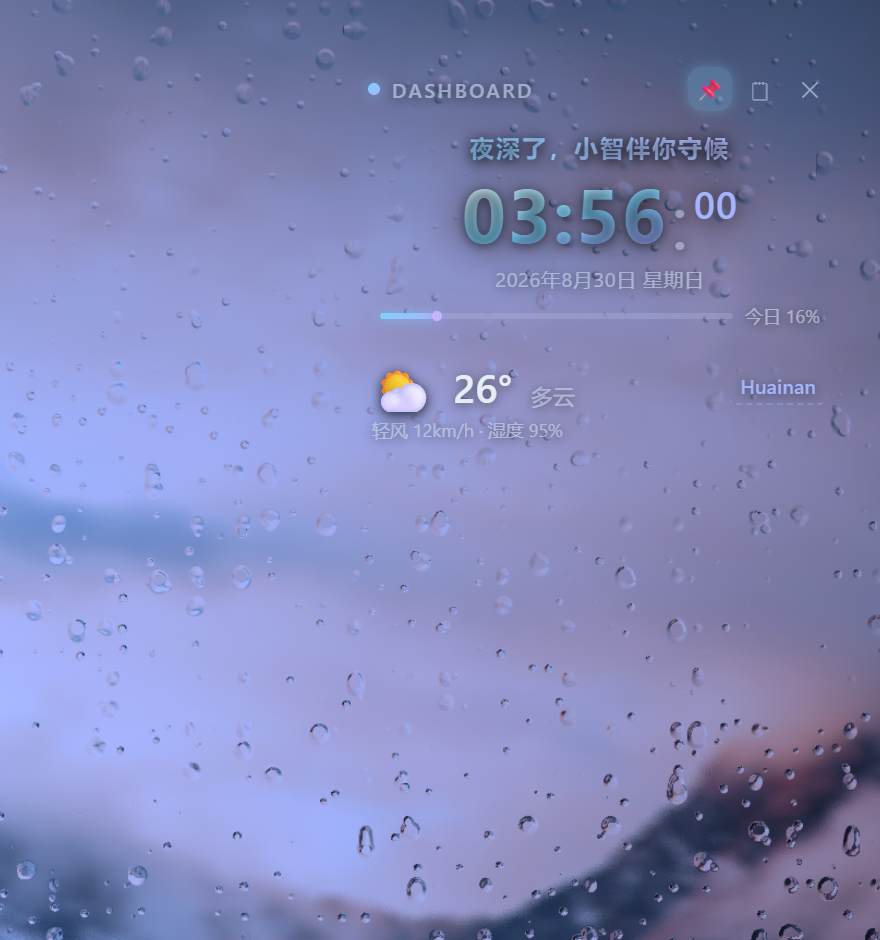
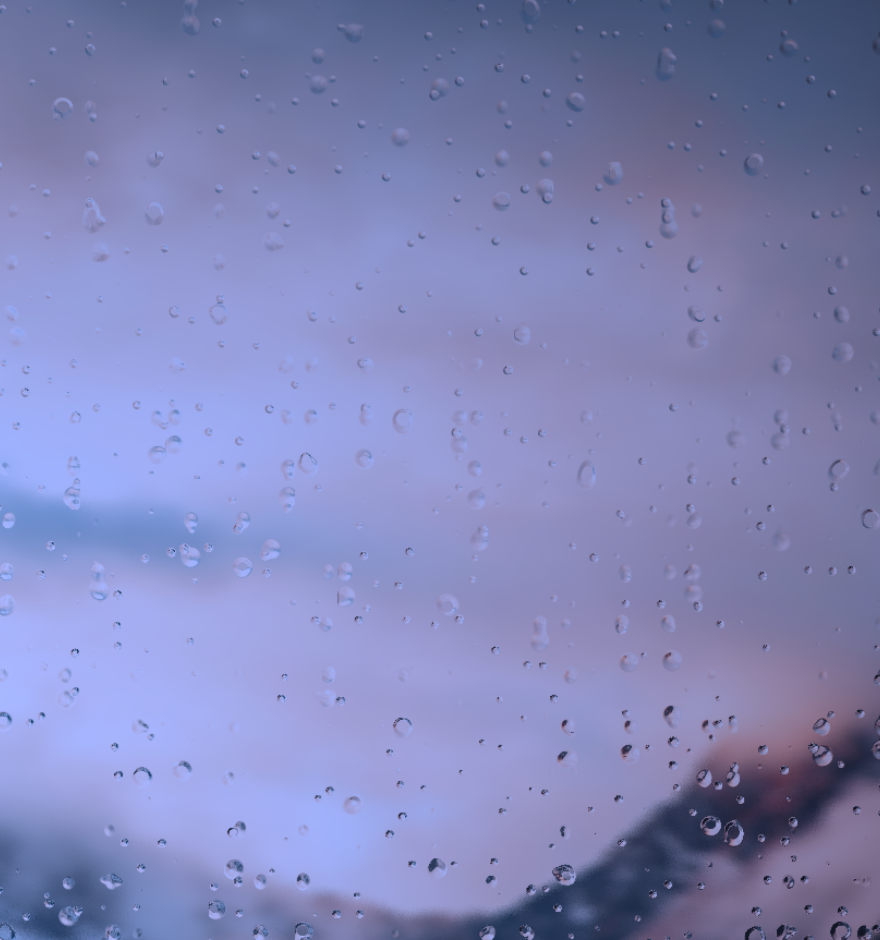
feat: 开机自启（⚡开关）+ Win+D 常驻桌面

diff --git a/dist/main.js b/dist/main.js
@@ -39,6 +39,7 @@ const memoStatus = document.getElementById("memo-status");
 const memoClear = document.getElementById("memo-clear");
 const quitBtn = document.getElementById("quit-btn");
 const pinBtn = document.getElementById("pin-btn");
+const autostartBtn = document.getElementById("autostart-btn");
 const cityPopover = document.getElementById("city-popover");
 const cityInput = document.getElementById("city-input");
 const citySave = document.getElementById("city-save");
@@ -198,6 +199,22 @@ pinBtn.addEventListener("click", async () => {
   pinBtn.title = isPinned ? "已悬浮置顶，点击放回桌面" : "悬浮置顶（当前贴在桌面）";
 });
 
+// ===== 开机自启 =====
+function setAutoUi(on) {
+  autostartBtn.classList.toggle("active", on);
+  autostartBtn.title = on ? "开机自启：已开启，点击关闭" : "开机自启：已关闭，点击开启";
+}
+autostartBtn.addEventListener("click", async () => {
+  const next = !autostartBtn.classList.contains("active");
+  try {
+    await invoke("set_autostart", { enable: next });
+    setAutoUi(next);
+  } catch (_) {}
+});
+async function loadAutoState() {
+  try { setAutoUi(await invoke("get_autostart")); } catch (_) {}
+}
+
 // ===== 退出 =====
 quitBtn.addEventListener("click", async () => { try { await invoke("quit_app"); } catch (_) {} });
 
@@ -205,6 +222,7 @@ quitBtn.addEventListener("click", async () => { try { await invoke("quit_app"); 
 async function init() {
   tickClock();
   await loadMemo();
+  loadAutoState();
   refreshWeather();
   setInterval(refreshWeather, 30 * 60 * 1000);
   // 备忘录默认展开，填满卡片下部

diff --git a/dist/index.html b/dist/index.html
@@ -13,6 +13,7 @@
           <span class="brand-dot"></span>
           <span class="brand-title">DASHBOARD</span>
           <div class="header-actions">
+            <button id="autostart-btn" class="icon-btn" title="开机自启" aria-label="开机自启">⚡</button>
             <button id="pin-btn" class="icon-btn" title="悬浮置顶（当前贴在桌面）" aria-label="悬浮置顶">📌</button>
             <button id="memo-toggle" class="icon-btn" title="备忘录" aria-label="备忘录">🗒</button>
             <button id="quit-btn" class="icon-btn close-btn" title="退出" aria-label="退出">✕</button>

diff --git a/dist/style.css b/dist/style.css
@@ -39,7 +39,7 @@ html, body {
 }
 .icon-btn:hover { background: rgba(125,211,252,0.14); color: var(--text); transform: scale(1.08); }
 .close-btn:hover { background: rgba(255,90,90,0.22); color: #fca5a5; }
-#pin-btn.active { background: rgba(125,211,252,0.22); color: var(--accent); box-shadow: 0 0 6px rgba(125,211,252,0.3); }
+.icon-btn.active { background: rgba(125,211,252,0.22); color: var(--accent); box-shadow: 0 0 6px rgba(125,211,252,0.3); }
 
 /* 问候 + 时钟 */
 .greeting { text-align: center; cursor: grab; flex-shrink: 0; position: relative; z-index: 2; animation: fadeInUp 0.6s ease; }

diff --git a/src-tauri/src/lib.rs b/src-tauri/src/lib.rs
@@ -231,6 +231,53 @@ fn bottom_hwnd(hwnd: *mut std::ffi::c_void) {
 #[cfg(not(windows))]
 fn bottom_hwnd(_hwnd: *mut std::ffi::c_void) {}
 
+/// 开机自启：HKCU\...\Run 注册表键
+const AUTOSTART_VALUE: &str = "MistBoard";
+#[cfg(windows)]
+const RUN_KEY: &str = r"Software\Microsoft\Windows\CurrentVersion\Run";
+
+#[cfg(windows)]
+fn autostart_enabled() -> bool {
+    use winreg::enums::{HKEY_CURRENT_USER, KEY_QUERY_VALUE};
+    use winreg::RegKey;
+    RegKey::predef(HKEY_CURRENT_USER)
+        .open_subkey_with_flags(RUN_KEY, KEY_QUERY_VALUE)
+        .and_then(|k| k.get_value::<String, _>(AUTOSTART_VALUE))
+        .is_ok()
+}
+
+#[cfg(windows)]
+fn set_autostart_registry(enable: bool) -> Result<(), String> {
+    use winreg::enums::{HKEY_CURRENT_USER, KEY_QUERY_VALUE, KEY_SET_VALUE};
+    use winreg::RegKey;
+    let key = RegKey::predef(HKEY_CURRENT_USER)
+        .open_subkey_with_flags(RUN_KEY, KEY_SET_VALUE | KEY_QUERY_VALUE)
+        .map_err(|e| e.to_string())?;
+    if enable {
+        let exe = std::env::current_exe().map_err(|e| e.to_string())?;
+        key.set_value(AUTOSTART_VALUE, &exe.to_string_lossy().to_string())
+            .map_err(|e| e.to_string())
+    } else {
+        let _ = key.delete_value(AUTOSTART_VALUE);
+        Ok(())
+    }
+}
+
+#[cfg(not(windows))]
+fn autostart_enabled() -> bool { false }
+#[cfg(not(windows))]
+fn set_autostart_registry(_enable: bool) -> Result<(), String> { Ok(()) }
+
+#[tauri::command]
+fn get_autostart() -> bool {
+    autostart_enabled()
+}
+
+#[tauri::command]
+fn set_autostart(enable: bool) -> Result<(), String> {
+    set_autostart_registry(enable)
+}
+
 /// 📌 切换悬浮置顶；默认贴在桌面，被应用窗口盖住
 #[tauri::command]
 fn toggle_pin(window: tauri::WebviewWindow) -> Result<bool, String> {
@@ -270,6 +317,18 @@ pub fn run() {
         .manage(HttpClient(http))
         .setup(|app| {
             if let Some(window) = app.get_webview_window("main") {
+                // 去掉可最小化样式：Win+D/显示桌面会跳过本窗口，看板常驻桌面
+                #[cfg(windows)]
+                if let Ok(raw) = window.hwnd() {
+                    use windows_sys::Win32::UI::WindowsAndMessaging::{
+                        GetWindowLongPtrW, SetWindowLongPtrW, GWL_STYLE, WS_MAXIMIZEBOX, WS_MINIMIZEBOX,
+                    };
+                    let hwnd = raw.0 as *mut std::ffi::c_void;
+                    unsafe {
+                        let style = GetWindowLongPtrW(hwnd, GWL_STYLE);
+                        SetWindowLongPtrW(hwnd, GWL_STYLE, style & !((WS_MINIMIZEBOX | WS_MAXIMIZEBOX) as isize));
+                    }
+                }
                 if let Ok(Some(monitor)) = window.current_monitor() {
                     let size = monitor.size();
                     let scale = monitor.scale_factor();
@@ -298,26 +357,6 @@ pub fn run() {
                 if let Ok(raw) = window.hwnd() {
                     bottom_hwnd(raw.0 as *mut std::ffi::c_void);
                 }
-
-                // Win+D/显示桌面会把它最小化：无激活地恢复并压回底层
-                #[cfg(windows)]
-                {
-                    let w = window.clone();
-                    std::thread::spawn(move || loop {
-                        std::thread::sleep(std::time::Duration::from_millis(800));
-                        if let Ok(true) = w.is_minimized() {
-                            use windows_sys::Win32::UI::WindowsAndMessaging::ShowWindow;
-                            use windows_sys::Win32::UI::WindowsAndMessaging::SW_SHOWNOACTIVATE;
-                            if let Ok(raw) = w.hwnd() {
-                                let hwnd = raw.0 as *mut std::ffi::c_void;
-                                unsafe {
-                                    ShowWindow(hwnd, SW_SHOWNOACTIVATE);
-                                }
-                                bottom_hwnd(hwnd);
-                            }
-                        }
-                    });
-                }
             }
             Ok(())
         })
@@ -336,6 +375,18 @@ pub fn run() {
                         bottom_hwnd(raw.0 as *mut std::ffi::c_void);
                     }
                 }
+                // Win+D 最小化时窗口尺寸变为 0x0：无激活地恢复并压回底层，保证回到桌面就能看到
+                tauri::WindowEvent::Resized(size) => {
+                    if size.width == 0 || size.height == 0 {
+                        #[cfg(windows)]
+                        if let Ok(raw) = window.hwnd() {
+                            use windows_sys::Win32::UI::WindowsAndMessaging::{ShowWindow, SW_SHOWNOACTIVATE};
+                            let hwnd = raw.0 as *mut std::ffi::c_void;
+                            unsafe { ShowWindow(hwnd, SW_SHOWNOACTIVATE); }
+                            bottom_hwnd(hwnd);
+                        }
+                    }
+                }
                 _ => {}
             }
         })
@@ -343,7 +394,8 @@ pub fn run() {
             load_memo, save_memo,
             get_weather, get_weather_by_city, load_cached_weather,
             save_city, load_city,
-            toggle_pin, quit_app
+            toggle_pin, quit_app,
+            get_autostart, set_autostart
         ])
         .run(tauri::generate_context!())
         .expect("error while running tauri application");

diff --git a/README.md b/README.md
@@ -28,6 +28,8 @@
 - **天气**：Open-Meteo 数据，30 分钟自动刷新，支持手动设置城市，断网自动显示缓存并快速重试
 - **备忘录**：默认展开的便签，自动保存，重启不丢
 - **位置记忆**：拖到哪儿，下次启动就在哪儿
+- **开机自启（可选）**：顶栏 ⚡ 一键开关，开机登录后自动出现在桌面
+- **Win+D 常驻**：按 Win+D 显示桌面时看板不会消失，永远等在壁纸上
 - **极轻量**：单个 exe 约 4 MB，内存占用约 35 MB
 
 ## 📦 安装
@@ -75,7 +77,7 @@ MistBoard 是一个**普通的顶层透明窗口**（Tauri 2 / WebView2），通
 
 ## 🗺 Roadmap
 
-- [ ] 系统托盘菜单（显示/隐藏、开机自启）
+- [ ] 系统托盘菜单（显示/隐藏）
 - [ ] 主题配置文件（自定义颜色 / 字号 / 模块开关）
 - [ ] 多显示器适配
 - [ ] 农历与节日显示

diff --git a/README_EN.md b/README_EN.md
@@ -27,6 +27,7 @@ Clock · Weather · Notes, sitting at the very bottom of the Z-order, naturally 
 - **Weather** — powered by Open-Meteo, auto-refresh every 30 min, manual city selection, offline cache with quick retry
 - **Notes** — an always-open notepad with autosave
 - **Position memory** — drag it anywhere; it comes back after restart
+- **Optional auto-start** — toggle with the ⚡ button; and Win+D never hides it: the widget always waits on your desktop
 - **Featherweight** — a single ~4 MB exe, ~35 MB RAM
 
 ## 📦 Install
